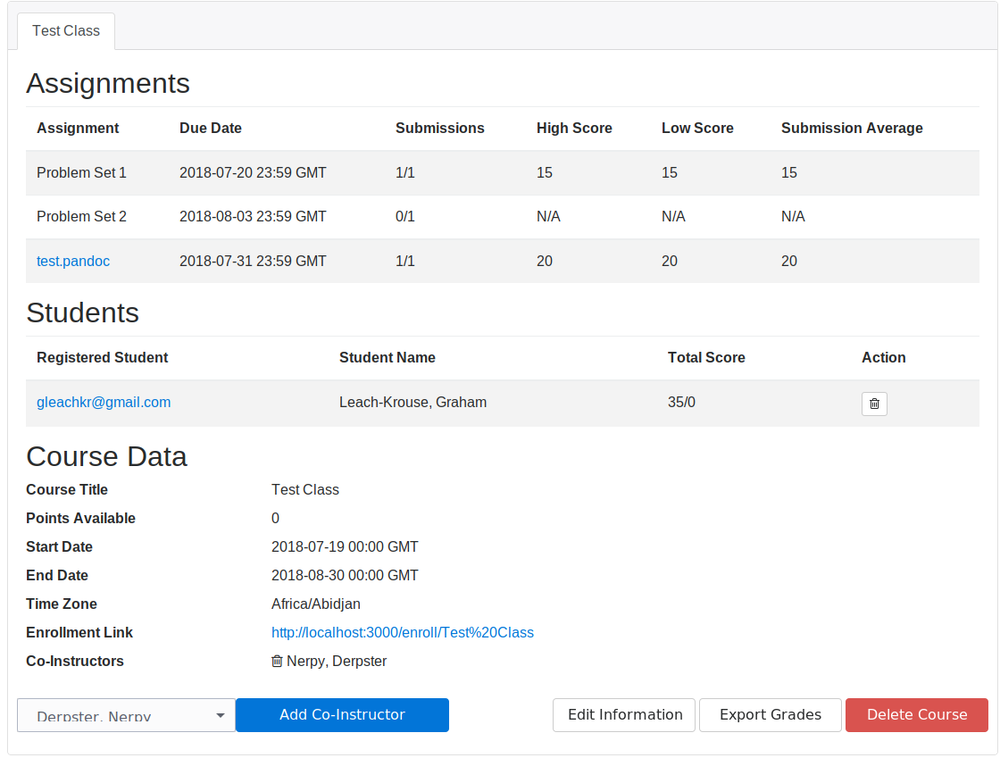
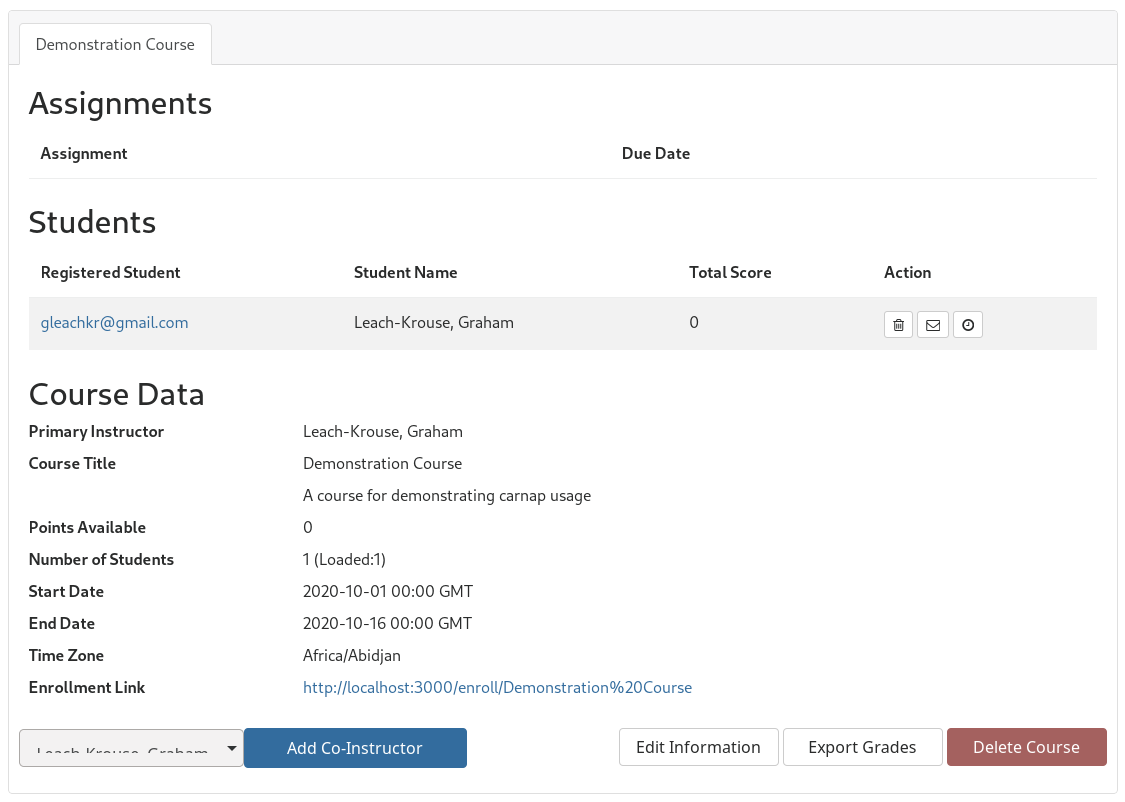
Document accommodation mechanism

diff --git a/doc/dashboard.md b/doc/dashboard.md
@@ -155,14 +155,24 @@ Once you've created a class, the class card will look a bit like this:
 Different classes are available under different tabs.
 
 The available functions are hopefully clear enough. In the upper half,
-statistics for different assignments are available, and in the lower half, a
-table of students and total scores earned by those students is visible.
-Students can be dropped from a class by clicking the "delete" icon visible to
-the right of their name, in the "Action" column of the table of students. A
-dropped student is removed from the class, but their data is otherwise intact.
-So if they are dropped by mistake, then can simply re-enroll. Students can also
-be emailed individually by clicking the "mail" icon visible in the action
-column to the right of their name.
+statistics for different assignments are available, and in the lower half,
+a table of students and total scores earned by those students is visible. A
+number of actions can be performed on individual students by clicking the icons
+in the "Actions" column:
+
+1. Students can be dropped from a class by clicking the "delete" icon.
+   A dropped student is removed from the class, but their data is otherwise
+   intact. So if they are dropped by mistake, then can simply re-enroll.
+2. Students can be emailed individually by clicking the "mail" icon visible in the
+   action column to the right of their name.
+3. Accessibility accommodations can be added for to individual students by
+   clicking the "clock" icon to the right of the student's name. A fixed number of
+   minutes can be added to all of the students timed exams, their exam times
+   can be extended by a given factor (for example, 1.5 for time-and-a-half) and
+   a fixed number of hours can be added to all of their due-dates. Adjustments
+   to due-dates do not affect visibility dates for assignments, only the
+   treatment of late work. Changes to due-dates will be reflected on the posted
+   due-date seen on the student's user page.
 
 Below the table of students, you'll see some course information, including the
 course title, points available, the start and end date for your course, the
